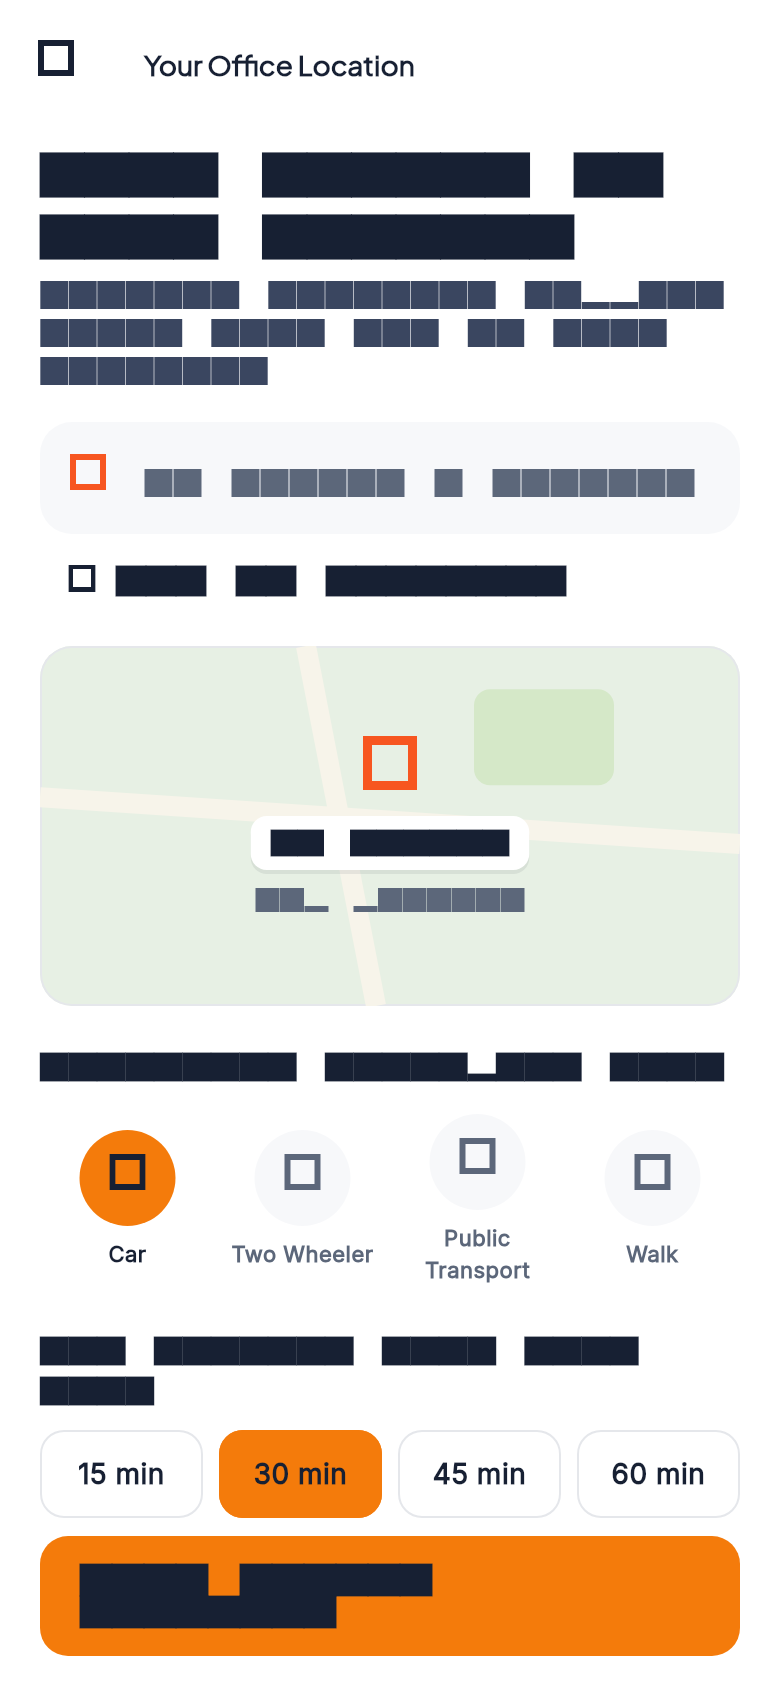
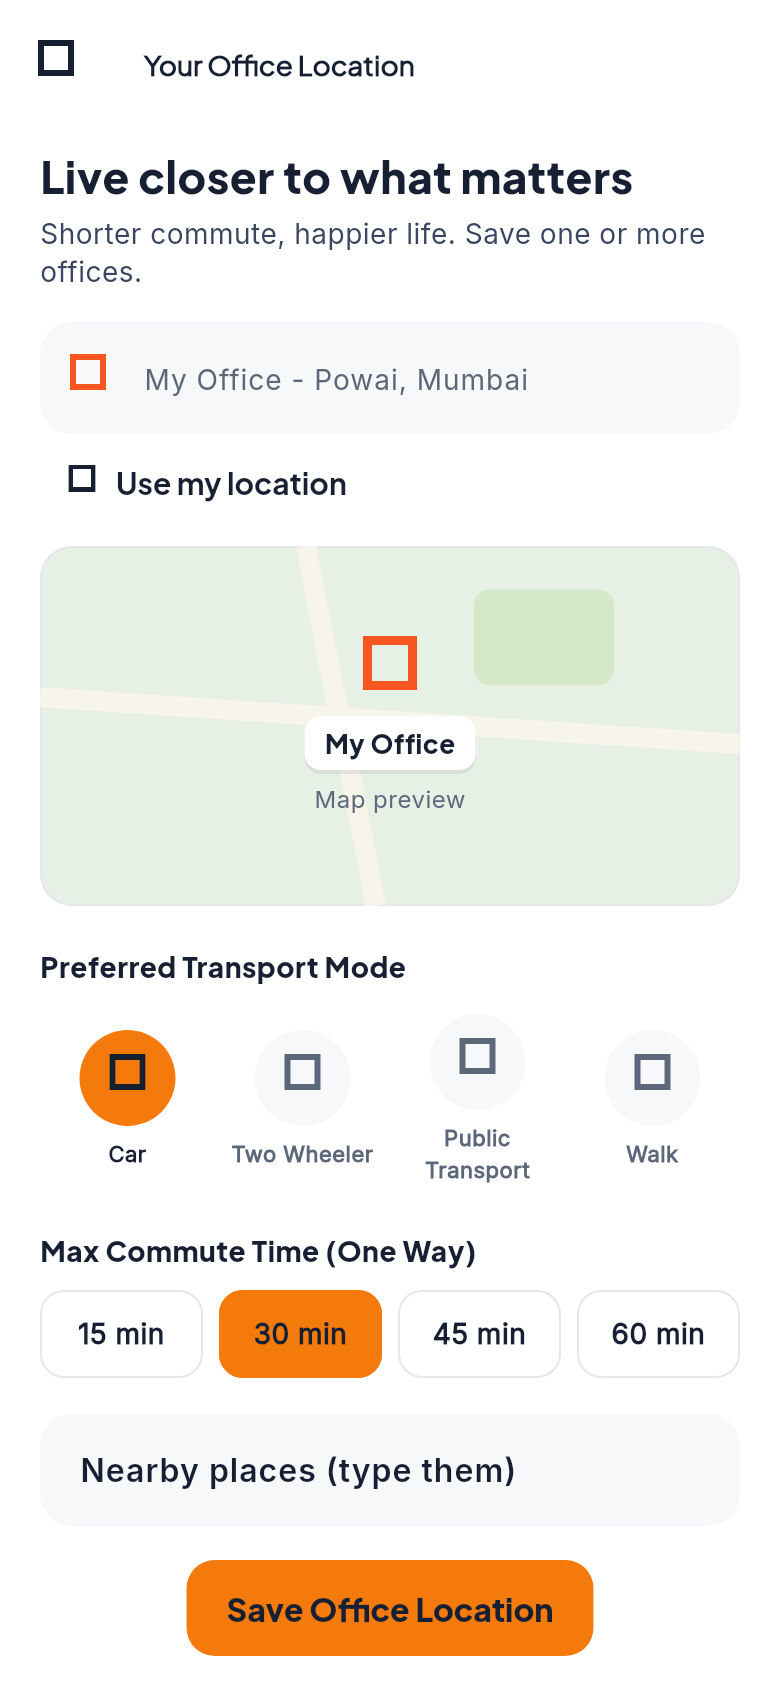
Gallery: all Search + Office states

diff --git a/README.md b/README.md
@@ -127,6 +127,28 @@ Office location (empty and filled), Search Properties with the 12 filter section
 <img src="6-master/C-search-office/office-location.png" width="240" alt="office-location.png">
 <img src="6-master/C-search-office/search-matches.png" width="240" alt="search-matches.png">
 <img src="6-master/C-search-office/search-properties.png" width="240" alt="search-properties.png">
+<img src="6-master/C-search-office/office-autocomplete.png" width="240" alt="office-autocomplete.png">
+<img src="6-master/C-search-office/office-minutes.png" width="240" alt="office-minutes.png">
+<img src="6-master/C-search-office/office-multiple.png" width="240" alt="office-multiple.png">
+<img src="6-master/C-search-office/office-saved.png" width="240" alt="office-saved.png">
+<img src="6-master/C-search-office/office-transport.png" width="240" alt="office-transport.png">
+<img src="6-master/C-search-office/search-01-occupancy.png" width="240" alt="search-01-occupancy.png">
+<img src="6-master/C-search-office/search-02-property-type.png" width="240" alt="search-02-property-type.png">
+<img src="6-master/C-search-office/search-03-budget.png" width="240" alt="search-03-budget.png">
+<img src="6-master/C-search-office/search-04-location.png" width="240" alt="search-04-location.png">
+<img src="6-master/C-search-office/search-05-possession.png" width="240" alt="search-05-possession.png">
+<img src="6-master/C-search-office/search-06-gender.png" width="240" alt="search-06-gender.png">
+<img src="6-master/C-search-office/search-07-lifestyle.png" width="240" alt="search-07-lifestyle.png">
+<img src="6-master/C-search-office/search-08-furnishing.png" width="240" alt="search-08-furnishing.png">
+<img src="6-master/C-search-office/search-09-bathroom.png" width="240" alt="search-09-bathroom.png">
+<img src="6-master/C-search-office/search-10-amenities.png" width="240" alt="search-10-amenities.png">
+<img src="6-master/C-search-office/search-11-rules.png" width="240" alt="search-11-rules.png">
+<img src="6-master/C-search-office/search-12-suitable.png" width="240" alt="search-12-suitable.png">
+<img src="6-master/C-search-office/search-error.png" width="240" alt="search-error.png">
+<img src="6-master/C-search-office/search-loading.png" width="240" alt="search-loading.png">
+<img src="6-master/C-search-office/search-matches-empty.png" width="240" alt="search-matches-empty.png">
+<img src="6-master/C-search-office/search-progress-confirm.png" width="240" alt="search-progress-confirm.png">
+<img src="6-master/C-search-office/search-progress.png" width="240" alt="search-progress.png">
 </p>
 
 ### A · KERNAL shell: Home, nav, Personalize, More ([PR 71](https://github.com/dippaun/homizi-app/pull/71)), 504 tests passed
